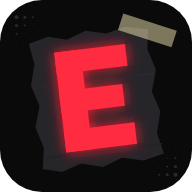
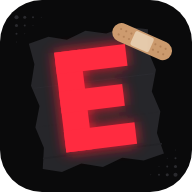
İkon: bant yerine yara bandı
Claude-Session: https://claude.ai/code/session_0137K9AbAc7kusFMfqKesPA6

Changed region(s): [[0.5625, 0.0625, 0.9375, 0.3125]]

diff --git a/sw.js b/sw.js
@@ -1,6 +1,6 @@
 // Uygulama kabuğu önbellekten anında açılır; nöbet listesi her açılışta ağdan istenir,
 // internet yoksa son indirilen liste gösterilir.
-const V = 'nobetci-v2';
+const V = 'nobetci-v3';
 const SHELL = ['./', 'index.html', 'manifest.webmanifest', 'icons/icon.svg', 'icons/icon-192.png', 'icons/icon-512.png'];
 
 self.addEventListener('install', e => {
